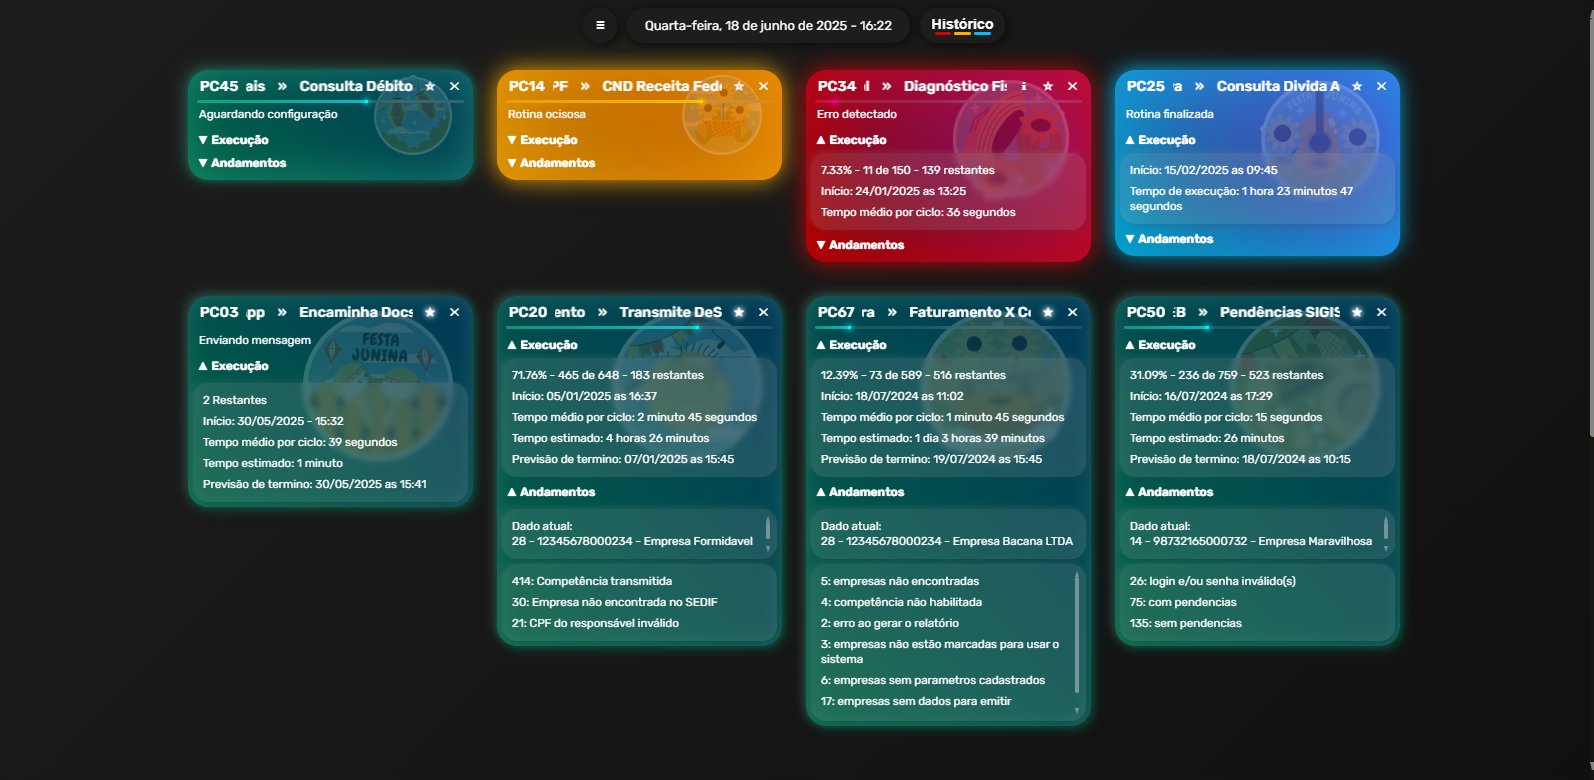
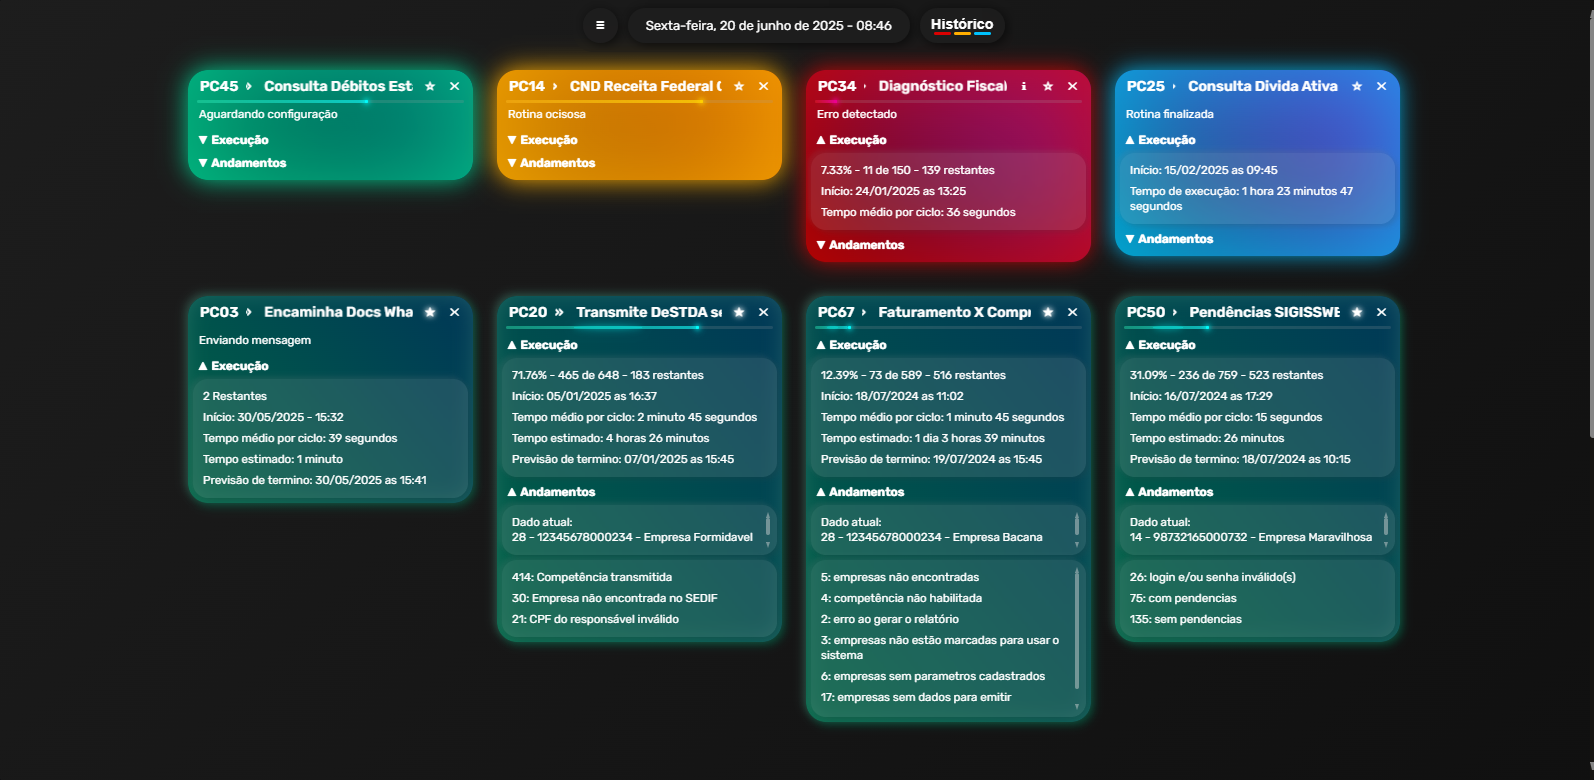
Otimização
Otimizações gerais

diff --git a/css/cardsStatus.css b/css/cardsStatus.css
@@ -8,7 +8,7 @@
         box-shadow: inset 0 0 20px var(--cor-opaca),
                 var(--direcao-sombra-1) var(--direcao-sombra-1) 10px var(--cor-opaca),
                 var(--direcao-sombra-2) var(--direcao-sombra-2) 10px var(--cor-opaca-2);
-        border: var(--borda-card) solid var(--cor-opaca);
+        border: var(--borda-card) solid var(--cor-secundaria);
     }
 }
 @keyframes bounce {
@@ -74,7 +74,7 @@
                 var(--direcao-sombra-1) var(--direcao-sombra-1) 10px var(--cor-opaca),
                 var(--direcao-sombra-2) var(--direcao-sombra-2) 10px var(--cor-opaca-2);
 
-    border: var(--borda-card) solid var(--cor-opaca);
+    border: var(--borda-card) solid var(--cor-secundaria);
     background: linear-gradient(50deg, var(--cor-primaria), var(--cor-secundaria));
     animation: var(--animacao);
 }
@@ -93,7 +93,7 @@
                 var(--direcao-sombra-1) var(--direcao-sombra-1) 10px var(--cor-opaca),
                 var(--direcao-sombra-2) var(--direcao-sombra-2) 10px var(--cor-opaca-2);
 
-    border: var(--borda-card) solid var(--cor-opaca);
+    border: var(--borda-card) solid var(--cor-secundaria);
     background: linear-gradient(50deg, var(--cor-primaria), var(--cor-secundaria));
     animation: var(--animacao);
 }
@@ -116,7 +116,7 @@
                     var(--direcao-sombra-1) var(--direcao-sombra-1) 10px var(--cor-opaca),
                     var(--direcao-sombra-2) var(--direcao-sombra-2) 10px var(--cor-opaca-2);
 
-        border: var(--borda-card) solid var(--cor-opaca);
+        border: var(--borda-card) solid var(--cor-secundaria);
         background: linear-gradient(50deg, var(--cor-primaria), var(--cor-secundaria));
         animation: var(--animacao);
     }

diff --git a/js/temas.js b/js/temas.js
@@ -37,19 +37,19 @@ function definevariantesImagens() {
         variantesImagens = 12;
         feriado = 'carnaval'
     }
-    else if ((mes === 4 && dia >= 1) || (mes === 4 && dia <= 22)) {
+    else if ((mes === 4 && dia >= 1) && (mes === 4 && dia <= 22)) {
         variantesImagens = 12;
         feriado = 'pascoa'
     }
-    else if ((mes === 6 && dia >= 29) || (mes === 6 && dia <= 30)) {
+    else if ((mes === 6 && dia >= 21) && (mes === 6 && dia <= 30)) {
         variantesImagens = 19;
         feriado = 'junina'
     }
-    else if ((mes === 10 && dia >= 1) || (mes === 10 && dia <= 31)) {
+    else if ((mes === 10 && dia >= 1) && (mes === 10 && dia <= 31)) {
         variantesImagens = 18;
         feriado = 'halloween'
     }
-    else if ((mes === 12 && dia >= 1) || (mes === 12 && dia <= 29)) {
+    else if ((mes === 12 && dia >= 1) && (mes === 12 && dia <= 29)) {
         variantesImagens = 12;
         feriado = 'natal'
     }

diff --git a/css/historico.css b/css/historico.css
@@ -244,7 +244,7 @@
 /* Mobile 361px - 649px */
 @media (min-width: 471px) and (max-width: 649px) {
     .telaHistorico {
-        margin: 10px 0 0 0;
+        margin: 50px 0 0 0;
     }
 }
 
@@ -286,10 +286,6 @@
 
 /* Tablets médios 650px - 990px */
 @media (min-width: 650px) and (max-width: 990px) {
-    .telaHistorico {
-        margin: 60px 0 0 0;
-    }
-
     #telaMenu,
     #configHistorico {
         flex-wrap: wrap;
@@ -309,7 +305,11 @@
         gap: 25px;
     }
 }
-
+@media (min-width: 917px) and (max-width: 990px) {
+    .telaHistorico {
+        margin: 45px 0 0 0;
+    }
+}
 /* Telas grandes até 2500px */
 @media (max-width: 2500px) {
     .mainHistorico,

diff --git a/css/cabecalho.css b/css/cabecalho.css
@@ -10,6 +10,7 @@
     z-index: 2;
     display: flex;
     flex-direction: column;
+    align-items: center;
     border-radius: 20px;
     overflow: hidden;
     transition: var(--transicao-link) ease-in-out, 
@@ -327,7 +328,6 @@
     
     .menuTela {
         flex-wrap: wrap;
-        gap: 0;
         height: 180px;
     }
 }
